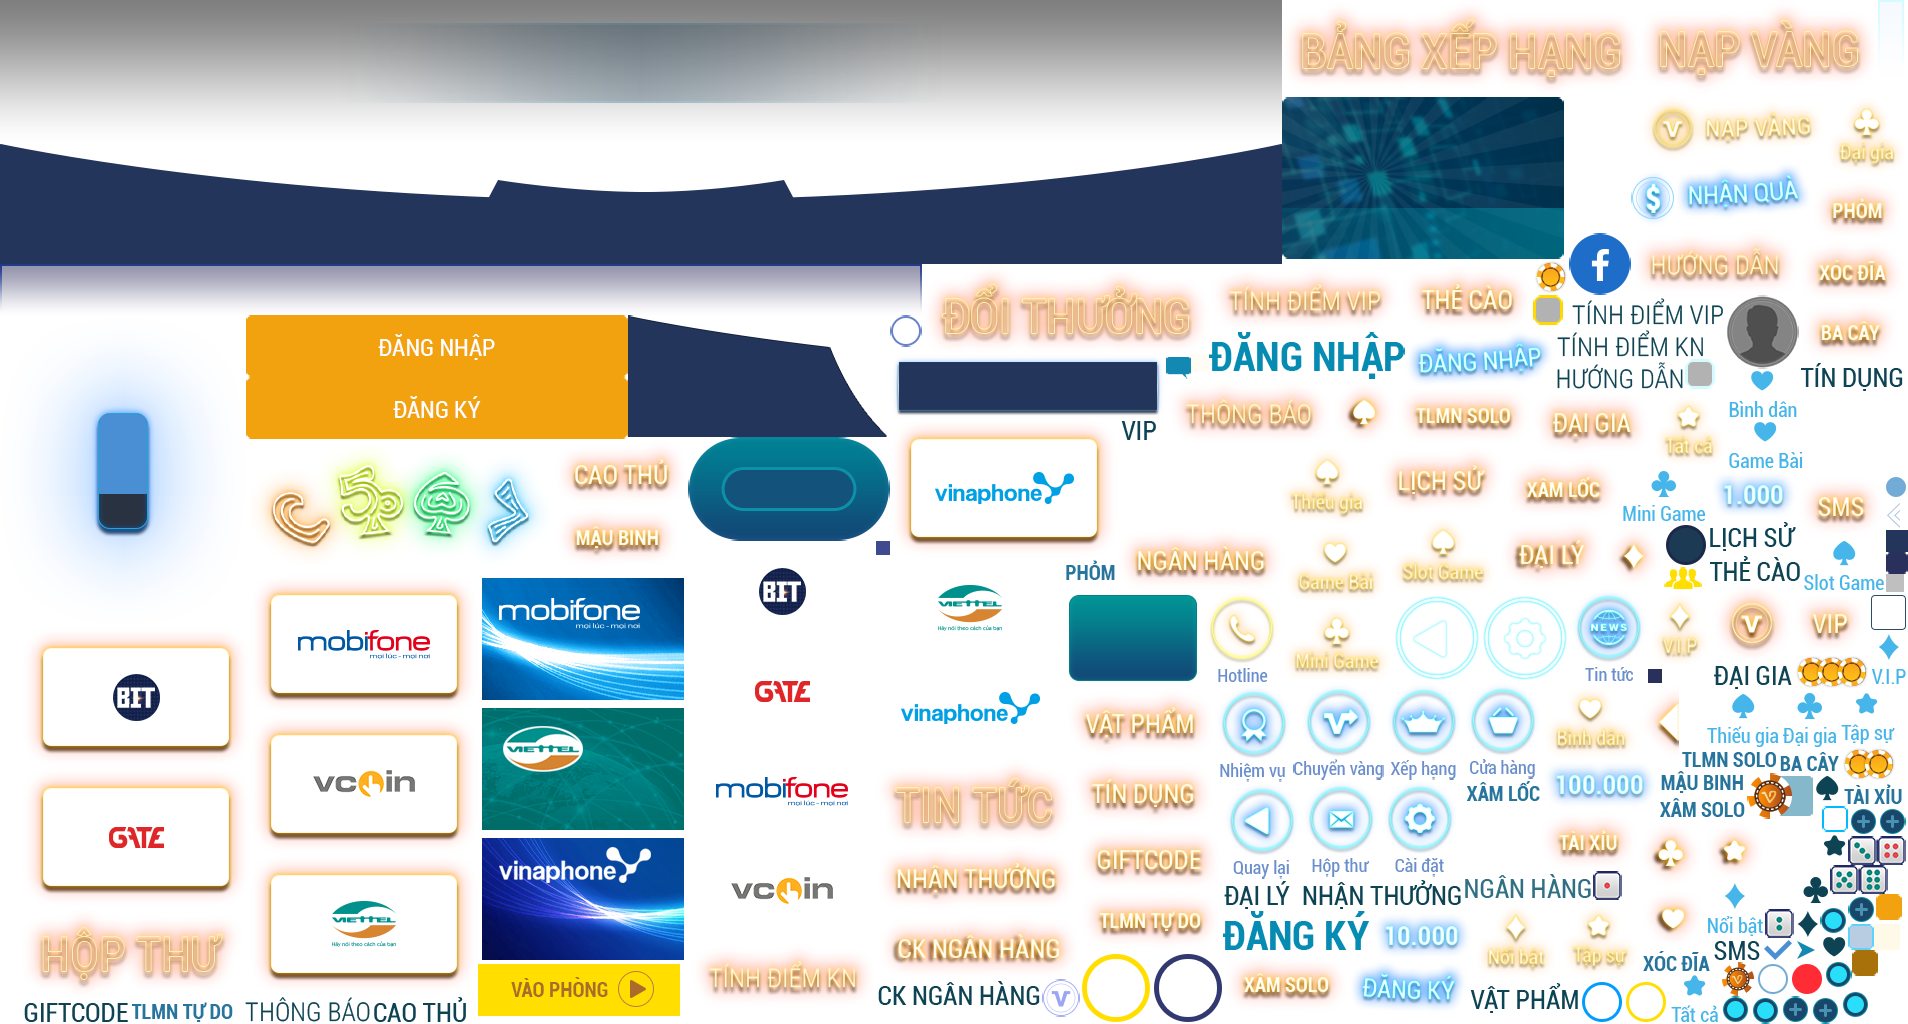
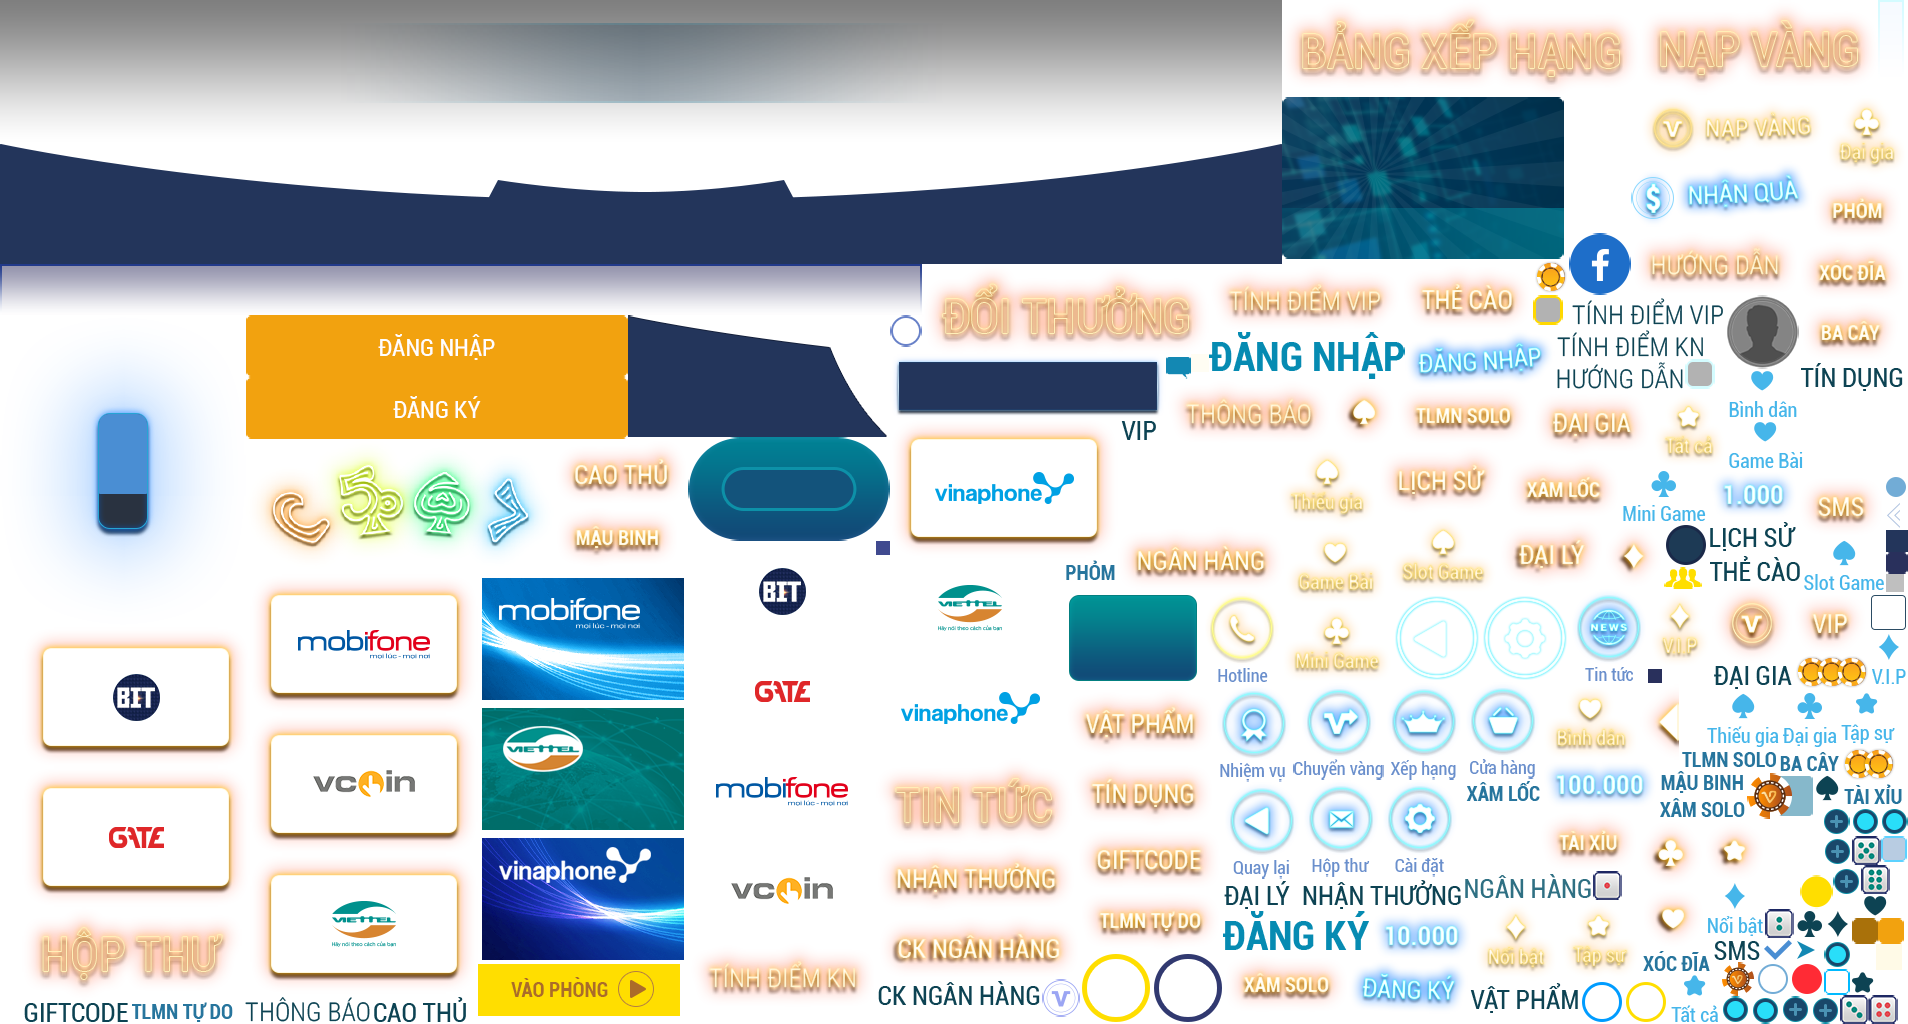
inboxCount

Changed region(s): [[0.9277, 0.7812, 1.0, 1.0]]

diff --git a/res/Game/js/Home/LobbyTopBar.js b/res/Game/js/Home/LobbyTopBar.js
@@ -1,6 +1,54 @@
 /**
  * Created by Quyet Nguyen on 7/1/2016.
  */
+
+var InboxCountNode = cc.Node.extend({
+    ctor : function () {
+        this._super();
+        LobbyClient.getInstance().addListener("inboxMessage", this._onInboxMessageHandler, this);
+
+        var bg = new cc.Sprite("#top_bar_news_bg.png");
+        bg.setPosition(cc.p(0,0));
+        this.addChild(bg);
+        this.newsBg = bg;
+
+        var newLabel = new cc.LabelTTF("9+", cc.res.font.Roboto_Condensed, 20);
+        newLabel.setPosition(bg.getContentSize().width/2, bg.getContentSize().height/2);
+        newLabel.setColor(cc.color("#682e2e"));
+        bg.addChild(newLabel);
+        this.newLabel = newLabel;
+    },
+
+    refreshView : function () {
+        if(PlayerMe.messageCount <= 0){
+            this.newsBg.visible = false;
+        }
+        else{
+            this.newsBg.visible = true;
+            if(PlayerMe.messageCount > 9){
+                this.newLabel.setString("9+");
+            }
+            else{
+                this.newLabel.setString(PlayerMe.messageCount.toString());
+            }
+        }
+    },
+
+    _onInboxMessageHandler : function () {
+        this.refreshView();
+    },
+
+    onEnter : function () {
+        this._super();
+        this.refreshView();
+    },
+
+    onExit : function () {
+        this._super();
+        LobbyClient.getInstance().removeListener(this);
+    }
+});
+
 var LobbyTopBar = cc.Node.extend({
     ctor : function () {
         this._super();
@@ -33,6 +81,10 @@ var LobbyTopBar = cc.Node.extend({
         var inboxBt = new ccui.Button("top_bar_inboxBt.png", "", "", ccui.Widget.PLIST_TEXTURE);
         inboxBt.setPosition(786, backBt.y);
         this.addChild(inboxBt);
+
+        var notif = new InboxCountNode();
+        notif.setPosition(70,80);
+        inboxBt.getRendererNormal().addChild(notif);
 
         var newsBt = new ccui.Button("top_bar_newsBt.png", "", "", ccui.Widget.PLIST_TEXTURE);
         newsBt.setPosition(932, backBt.y);
@@ -104,6 +156,11 @@ var LobbyTopBar = cc.Node.extend({
         this.messageText.runAction(new cc.RepeatForever(action));
     },
     refreshView : function () {
-        //this.setMessage(GameConfig.broadcastMessage);
+        this.setMessage(GameConfig.broadcastMessage);
+    },
+
+    onEnter : function () {
+        this._super();
+        this.refreshView();
     }
 });

diff --git a/res/Game/js/Home/LobbyBottomBar.js b/res/Game/js/Home/LobbyBottomBar.js
@@ -2,34 +2,6 @@
  * Created by Quyet Nguyen on 7/1/2016.
  */
 
-var InboxCountNode = cc.Node.extend({
-    ctor : function () {
-        this._super();
-
-        // var bg = new cc.Sprite("#home-news-count.png");
-        // bg.setPosition(newsBt.getContentSize().width, newsBt.getContentSize().height);
-        // newsBt.addChild(newBg);
-        //
-        // var newLabel = cc.Label.createWithBMFont(cc.res.font.Roboto_CondensedBold_25, "9+");
-        // newLabel.setPosition(bg.getContentSize().width/2, bg.getContentSize().height/2);
-        // newLabel.setColor(cc.color(104, 46, 46));
-        // bg.addChild(newLabel);
-
-        // if(PlayerMe.messageCount <= 0){
-        //     this.newBg.visible = false;
-        // }
-        // else{
-        //     this.newBg.visible = true;
-        //     if(PlayerMe.messageCount > 9){
-        //         this.newLabel.setString("9+");
-        //     }
-        //     else{
-        //         this.newLabel.setString(PlayerMe.messageCount.toString());
-        //     }
-        // }
-    }
-});
-
 var LobbyBottomBar = cc.Node.extend({
     ctor : function () {
         this._super();
@@ -154,10 +126,10 @@ var LobbyBottomBar = cc.Node.extend({
 
         var level = cc.Global.GetLevelMe();
         this.levelLabel.setString(level.level.toString());
-        //this.levelBar.setPercentage(level.expPer);
+        this.levelBar.setPercentage(level.expPer);
 
         var vip = cc.Global.GetVipMe();
         this.vipLabel.setString(vip.level.toString());
-      //  this.vipBar.setPercentage(vip.expPer);
+        this.vipBar.setPercentage(vip.expPer);
     }
 });
